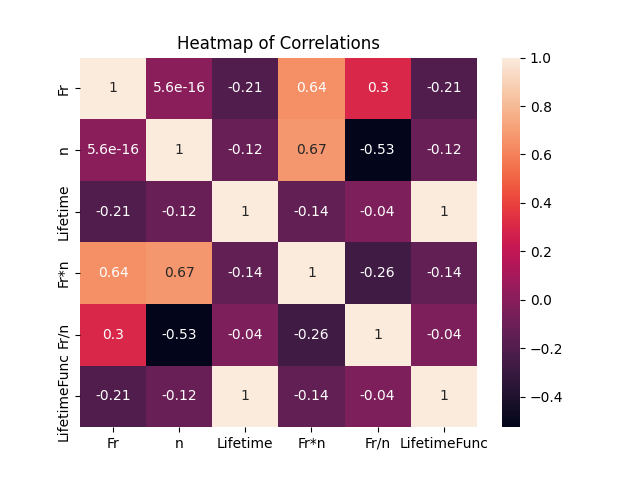
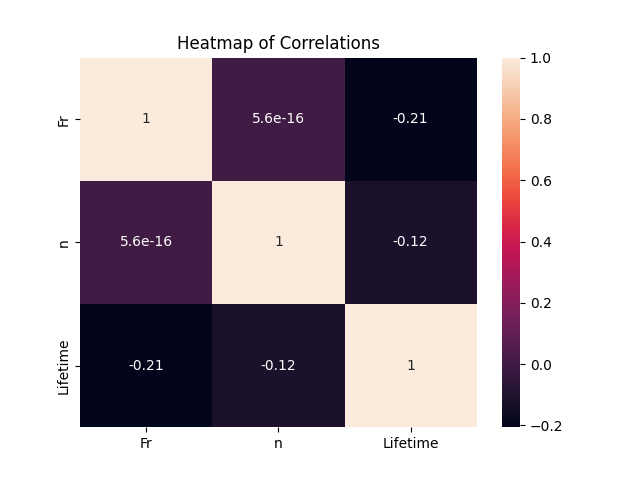
feat: remove unnecessary features from EDA

diff --git a/src/shaft-bearing/shaft-bearing-eda.py b/src/shaft-bearing/shaft-bearing-eda.py
@@ -6,11 +6,6 @@ import numpy as np
 # Load the data
 data = pd.read_csv('data/ShaftBearing/data.csv')
 
-# Create interaction features
-data['Fr*n'] = data['Fr']*data['n']
-data['Fr/n'] = data['Fr']/data['n']
-data['LifetimeFunc'] = 4.13786 * 10**17 * (data['Fr']) ** (-10/3) * (data['n']) ** (-1.0)
-
 # Basic information about the data
 print('\nFirst few rows of the data:')
 print(data.head())
@@ -22,36 +17,35 @@ print('\nMissing Values:')
 print(data.isnull().sum())
 
 # Distribution Plots (Logarithmic Scale for Lifetime)
-fig1, ax1 = plt.subplots(2, 3, figsize=(15, 10))
+fig1, ax1 = plt.subplots(1, 3, figsize=(15, 5))
 for i, column in enumerate(data.columns):
     if column == 'Lifetime' or column == 'Fr*n' or column == 'Fr/n' or column == 'LifetimeFunc':
         # Create a temporary variable for Lifetime, replacing 0 with a very small number
         temp_column = data[column].replace(0, 0.0001)
-        sns.histplot(np.log(temp_column), ax=ax1[i//3, i%3])
-        ax1[i//3, i%3].set_title('Logarithmic Scale for ' + column)
+        sns.histplot(np.log(temp_column), ax=ax1[i%3])
+        ax1[i%3].set_title('Logarithmic Scale for ' + column)
     else:
         n_bins = data[column].nunique()
-        sns.histplot(data[column], bins=n_bins, ax=ax1[i//3, i%3])
-        ax1[i//3, i%3].set_title('Distribution of ' + column)
+        sns.histplot(data[column], bins=n_bins, ax=ax1[i%3])
+        ax1[i%3].set_title('Distribution of ' + column)
 fig1.suptitle('Distribution Plots')
 fig1.savefig('docs/assets/bearings-eda/distribution-plots.png')
 
 # Boxplots
-fig4, ax4 = plt.subplots(2, 3, figsize=(15, 10))
+fig4, ax4 = plt.subplots(1, 3, figsize=(15, 5))
 for i, column in enumerate(data.columns):
-    sns.boxplot(x=data[column], ax=ax4[i//3, i%3])
-    ax4[i//3, i%3].set_title('Boxplot of ' + column)
+    sns.boxplot(x=data[column], ax=ax4[i%3])
+    ax4[i%3].set_title('Boxplot of ' + column)
 fig4.suptitle('Boxplots')
 fig4.savefig('docs/assets/bearings-eda/boxplots.png')
 
 # Pairplot
 data_pair = data.copy()
 data_pair['Lifetime_log'] = np.log(data_pair['Lifetime'])
-with sns.plotting_context("notebook", font_scale=1.5):
-    pair = sns.pairplot(data_pair, hue='Lifetime_log', palette='crest')
-    plt.subplots_adjust(top=0.95)
-    plt.suptitle('Pairplot of Fr, n, Lifetime and interaction features')
-    pair.savefig('docs/assets/bearings-eda/pairplot.png')
+pair = sns.pairplot(data_pair, hue='Lifetime_log', palette='crest')
+plt.subplots_adjust(top=0.95)
+plt.suptitle('Pairplot of Fr, n, Lifetime and interaction features')
+pair.savefig('docs/assets/bearings-eda/pairplot.png')
 
 # Heatmap of Correlations
 corr = data.corr()
@@ -73,20 +67,20 @@ ax3.set_zlabel('Lifetime')
 plt.title('3D Plot of Fr, n and Lifetime')
 fig3.savefig('docs/assets/bearings-eda/3dplot.png')
 
-import matplotlib.pyplot as plt
-
-# 3D Plot of Residuals
+# Estimate Lifetime Function and calculate Residuals
+data['LifetimeFunc'] = 4.13786 * 10**17 * (data['Fr']) ** (-10/3) * (data['n']) ** (-1.0)
 data['Residuals (% -1)'] = (data['Lifetime'] / data['LifetimeFunc']) - 1
 print('\nResiduals:')
 print(data['Residuals (% -1)'].describe())
+
+# 3D Plot of Residuals
 fig32 = plt.figure()
 ax32 = fig32.add_subplot(111, projection = '3d')
-ax32.scatter(data['Fr'], data['n'], data['Residuals (% -1)'] / 10**20)
+ax32.scatter(data['Fr'], data['n'], data['Residuals (% -1)'])
 ax32.set_xlabel('Fr')
 ax32.set_ylabel('n')
 ax32.set_zlabel('Residuals')
 plt.title('3D Plot of Fr, n and Residuals')
 fig32.savefig('docs/assets/bearings-eda/3dplot-residuals.png')
-
 
 plt.show()
